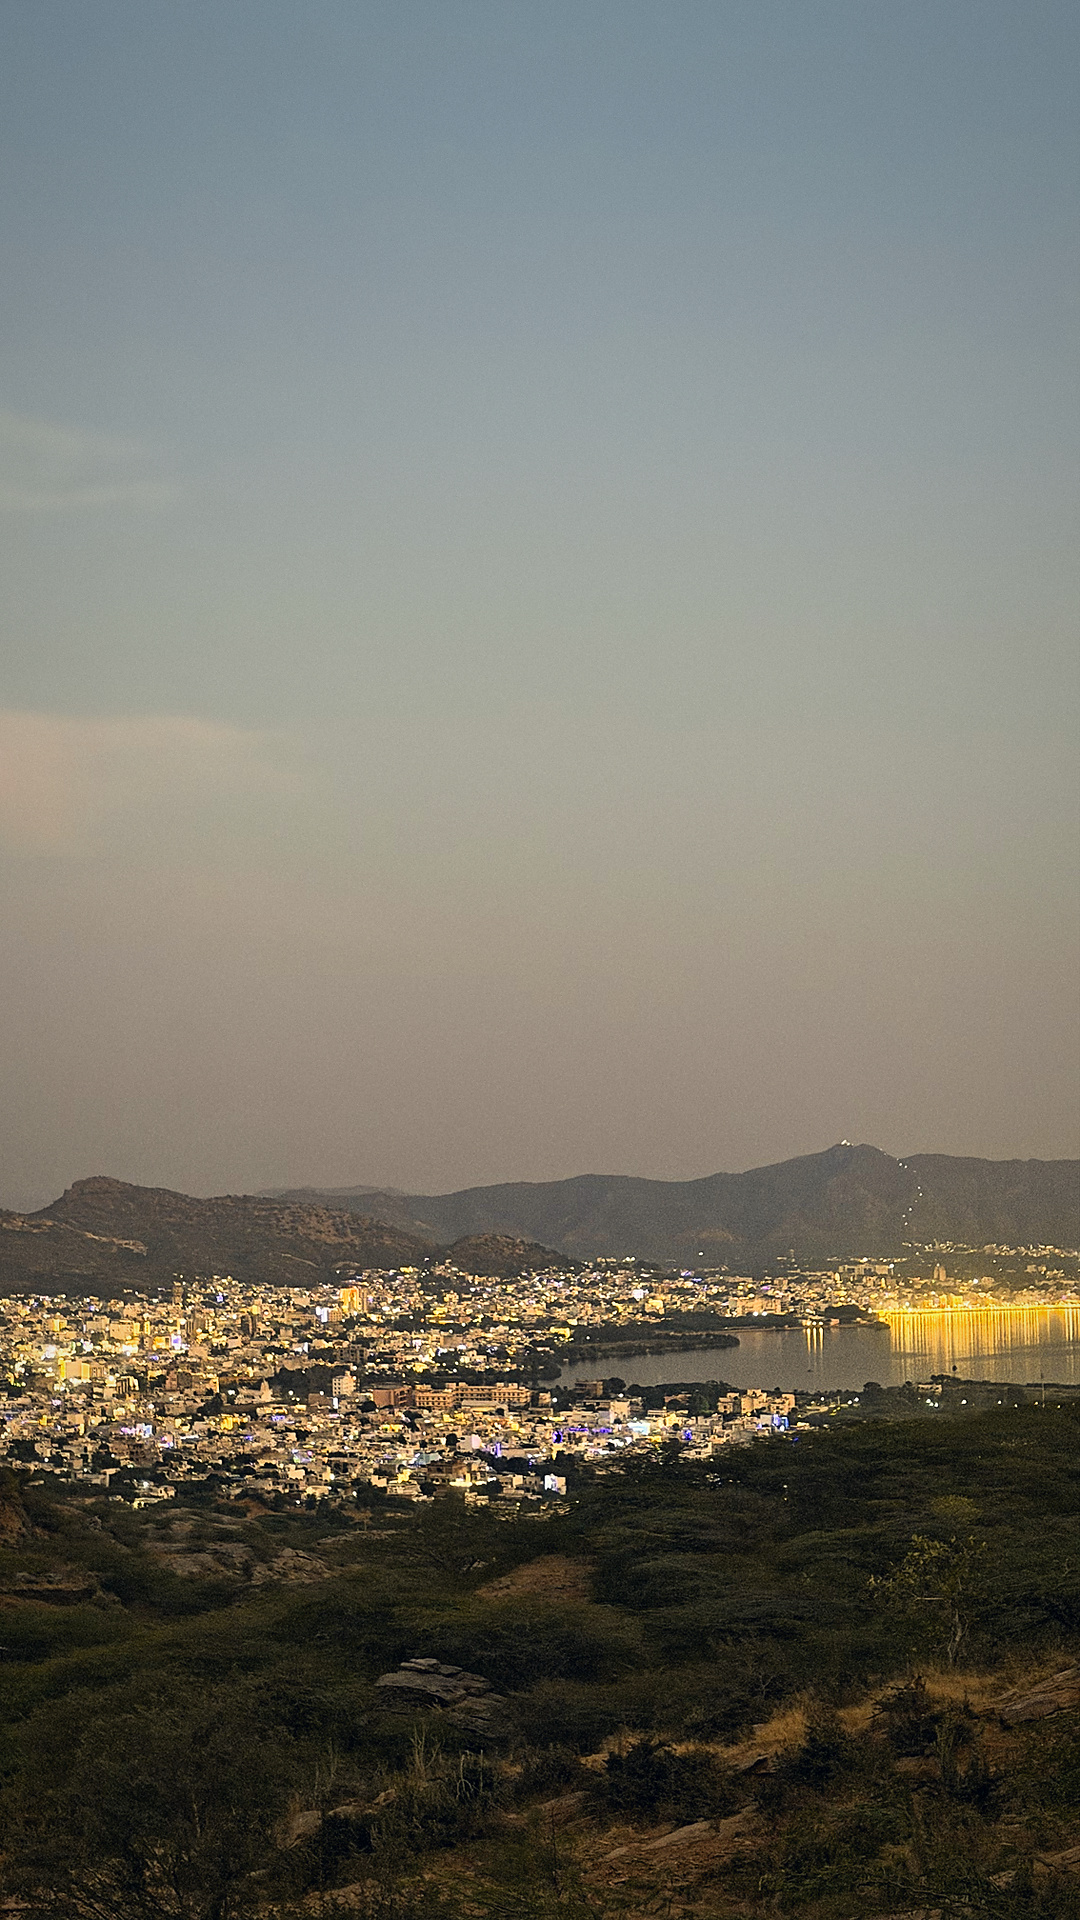
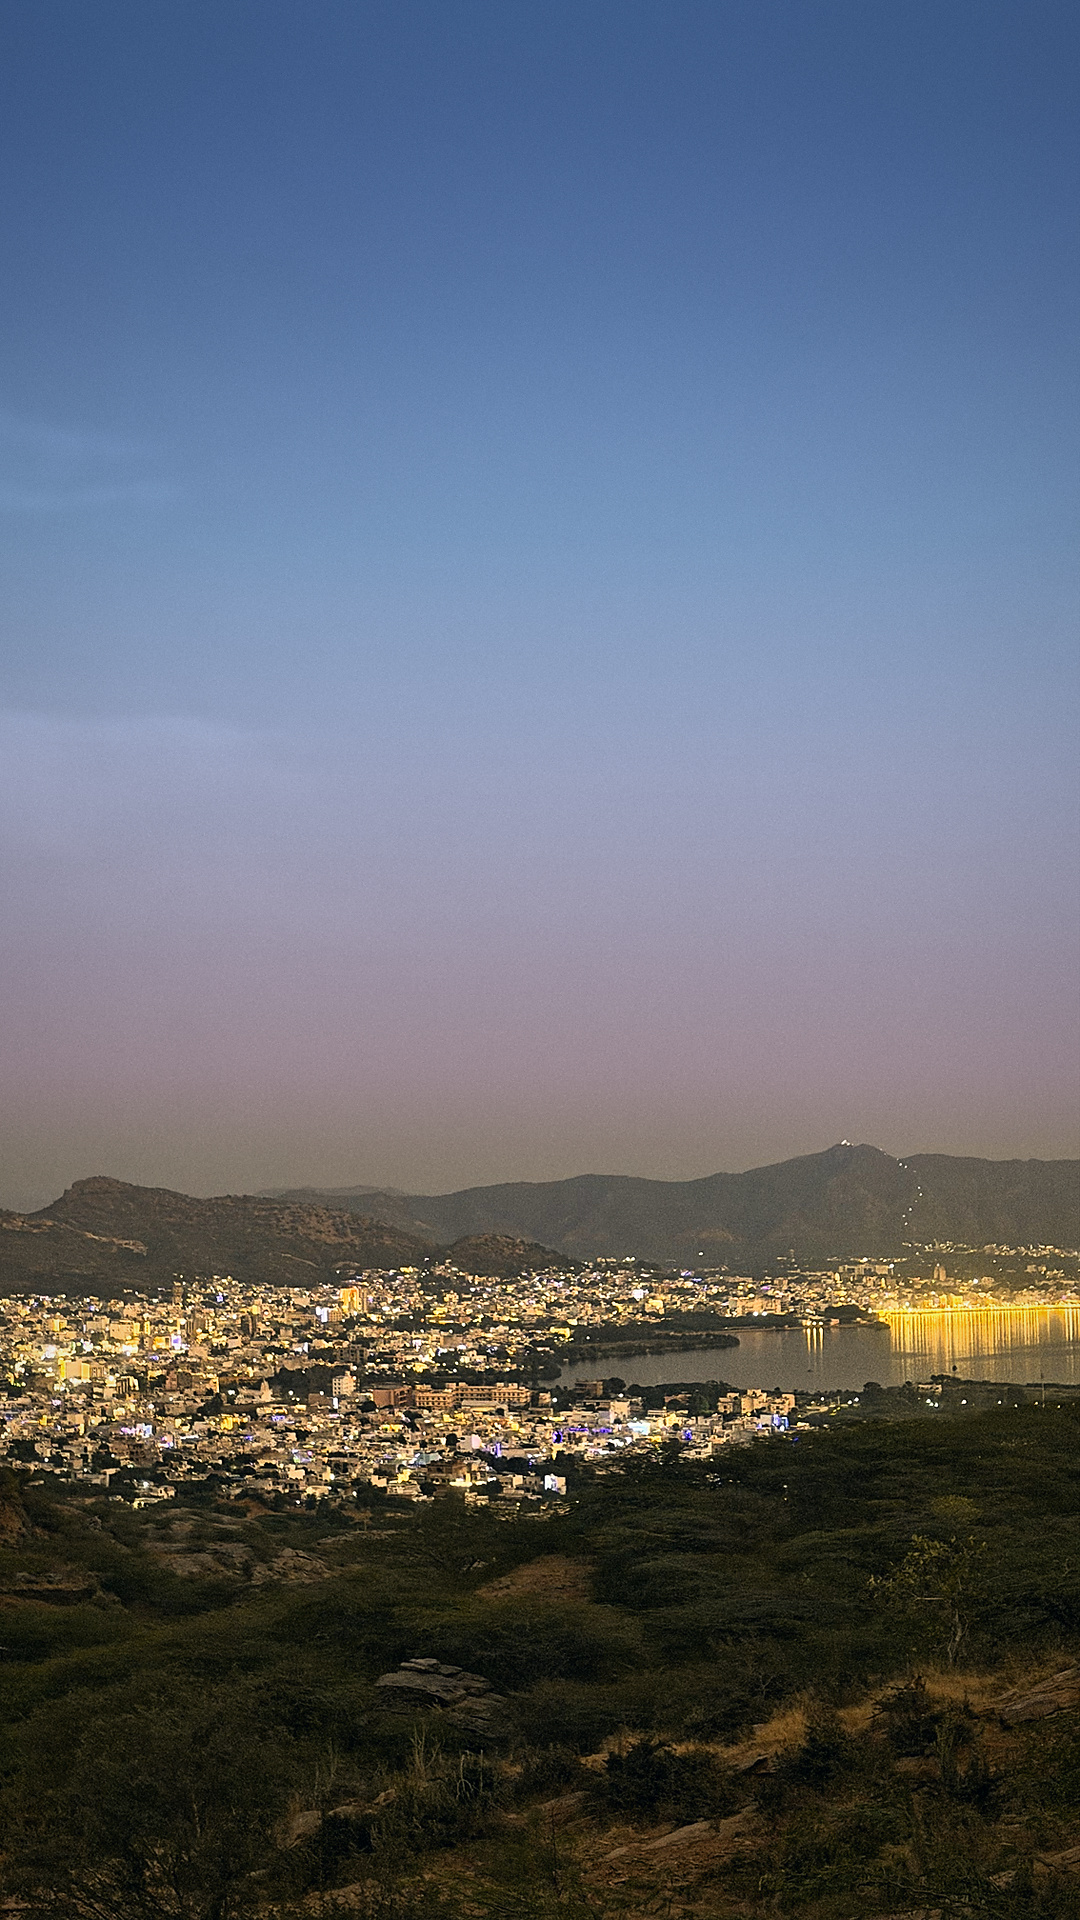
Refine story edits after full QA pass
- Add QA script: clipping, white point, saturation, flat-area noise, 100% crops
- Auto white point (clip-capped) for crisper highlights
- Blue hour: azure-to-rose sky gradient, land darkened so the lights glow
- Night arch: tighter crop, neutral ink blacks, warmer visible arch
- Misty layers: cool-to-warm sky gradient, brighter and cleaner
- Rebuild before/after and grid previews

Claude-Session: https://claude.ai/code/session_012ABvdF8pyw1B7kMw5foUKA

diff --git a/tools/edits.py b/tools/edits.py
@@ -36,6 +36,7 @@ def temple_sun(x):
     x = g.bloom(x, threshold=0.9, radius=25, amount=0.25, tint=(1.0, 0.93, 0.8))
     # restore a white-hot sun core
     x = g.apply_mask(x, g.exposure(x, 0.6), g.radial_mask(x.shape, 0.072, 0.176, 0.085, feather=0.8))
+    x = g.white_point(x, 0.96)
     x = g.vignette(x, 0.2)
     return g.grain(x)
 
@@ -55,7 +56,10 @@ def misty_layers(x):
     # soft peach glow sitting on the horizon
     glow = g.white_balance(g.exposure(x, 0.15), temp=0.35, tint=0.15)
     x = g.apply_mask(x, glow, g.radial_mask(x.shape, 0.55, 0.52, 0.9, 0.18, feather=0.9) * 0.6)
-    x = g.matte(x, lift=0.03, roll=0.975)
+    sky_m = g.linear_mask(x.shape, 0.5, 0.56)
+    x = g.sky_gradient(x, sky_m, [(0.0, 214, 0.2), (0.3, 210, 0.12), (0.52, 28, 0.14)], 0.6)
+    x = g.white_point(x, 0.95)
+    x = g.matte(x, lift=0.025, roll=0.98)
     x = g.vignette(x, 0.15)
     return g.grain(x)
 
@@ -73,6 +77,7 @@ def golden_balcony(x):
     x = g.split_tone(x, sh_hue=205, sh_amt=0.25, hl_hue=38, hl_amt=0.3)
     x = g.apply_mask(x, g.exposure(x, -0.3), g.linear_mask(x.shape, 0.0, 0.35))
     x = g.bloom(x, threshold=0.82, radius=30, amount=0.32)
+    x = g.white_point(x, 0.96)
     x = g.vignette(x, 0.22)
     return g.grain(x)
 
@@ -90,6 +95,7 @@ def sun_horizon(x):
     x = g.split_tone(x, sh_hue=200, sh_amt=0.3, hl_hue=32, hl_amt=0.3)
     x = g.apply_mask(x, g.exposure(x, -0.3), g.linear_mask(x.shape, 0.0, 0.4))
     x = g.bloom(x, threshold=0.85, radius=28, amount=0.35)
+    x = g.white_point(x, 0.96)
     x = g.vignette(x, 0.25)
     return g.grain(x)
 
@@ -130,6 +136,7 @@ def afterglow_hill(x):
     x = g.split_tone(x, sh_hue=215, sh_amt=0.25, hl_hue=30, hl_amt=0.22)
     x = g.apply_mask(x, g.exposure(x, -0.25), g.linear_mask(x.shape, 0.0, 0.4))
     x = g.bloom(x, threshold=0.72, radius=10, amount=0.4)
+    x = g.white_point(x, 0.96)
     x = g.vignette(x, 0.25)
     return g.grain(x)
 
@@ -149,52 +156,55 @@ def ghats_dusk(x):
     sky = g.white_balance(g.exposure(x, -0.15), temp=0.15, tint=0.12)
     x = g.apply_mask(x, sky, g.linear_mask(x.shape, 0.0, 0.32))
     x = g.bloom(x, threshold=0.8, radius=10, amount=0.3)
+    x = g.white_point(x, 0.96)
     x = g.matte(x, lift=0.02, roll=0.98)
     x = g.vignette(x, 0.2)
     return g.grain(x)
 
 
 def blue_hour_city(x):
-    """Moody blue hour: cool sky, golden city lights, glowing lakefront."""
+    """Moody blue hour: deep azure sky fading to a rose horizon, golden city
+    lights glowing against a slightly under-exposed scene."""
     x = g.crop(x, 378, 0, 1512, 2016)
-    x = g.smooth_flat(x, g.linear_mask(x.shape, 0.0, 0.58), radius=5, hi=0.03)
+    x = g.smooth_flat(x, g.linear_mask(x.shape, 0.0, 0.58), radius=6, hi=0.035)
     x = g.dehaze(x, 0.15)
     x = g.apply_mask(x, g.dehaze(x, 0.3), g.linear_mask(x.shape, 0.7, 0.55))
-    x = g.white_balance(x, temp=-0.15)
-    # push the grey-green sky into a deep twilight blue
-    sky = g.white_balance(x, temp=-0.55, tint=0.25)
-    sky = g.split_tone(sky, sh_hue=222, sh_amt=0.5, hl_hue=215, hl_amt=0.35)
-    x = g.apply_mask(x, sky, g.linear_mask(x.shape, 0.0, 0.6))
-    # soft lilac-peach twilight band above the hills, green removed
-    glow = g.white_balance(x, temp=0.15, tint=0.35)
-    band = g.linear_mask(x.shape, 0.62, 0.45) * g.linear_mask(x.shape, 0.58, 0.64)
-    x = g.apply_mask(x, glow, band * 0.8)
-    x = g.tone(x, shadows=0.3, highlights=-0.2, blacks=-0.25)
+    x = g.white_balance(x, temp=-0.1)
+    # sky mask: upper frame, and only where it is brighter than the hills
+    sky_m = g.linear_mask(x.shape, 0.55, 0.62) * g.smoothstep(0.28, 0.42, g.blur1(g.lum(x), 3))
+    x = g.sky_gradient(x, sky_m, [(0.0, 220, 0.55), (0.28, 214, 0.4),
+                                  (0.46, 240, 0.16), (0.6, 345, 0.16)], strength=0.9)
+    x = g.apply_mask(x, g.exposure(x, -1.8), g.linear_mask(x.shape, 0.0, 0.55) ** 1.3 * sky_m)
+    x = g.tone(x, shadows=0.3, highlights=-0.15, blacks=-0.25)
     x = g.contrast(x, 0.18)
     x = g.apply_mask(x, g.clarity(x, 0.3), g.linear_mask(x.shape, 0.7, 0.55))
-    x = g.hsl(x, blue=(-6, 0.25, -0.1), aqua=(15, 0.2, 0), yellow=(-8, 0.25, 0.1),
-              orange=(0, 0.2, 0.05), green=(-15, -0.3, -0.15), purple=(0, 0.15, 0))
-    x = g.split_tone(x, sh_hue=215, sh_amt=0.3, hl_hue=40, hl_amt=0.2)
-    sky = g.white_balance(g.exposure(x, -0.5), temp=-0.15)
-    x = g.apply_mask(x, sky, g.linear_mask(x.shape, 0.0, 0.5))
-    x = g.bloom(x, threshold=0.7, radius=8, amount=0.45)
+    x = g.hsl(x, yellow=(-8, 0.25, 0.1), orange=(0, 0.2, 0.05),
+              green=(-15, -0.3, -0.15), purple=(0, 0.15, 0))
+    x = g.split_tone(x, sh_hue=205, sh_amt=0.25, hl_hue=40, hl_amt=0.12)
+    # under-expose the land a touch so the lights pop, then let them glow
+    land = g.protect_highlights(1 - g.linear_mask(x.shape, 0.55, 0.62), x, 0.55, 0.8)
+    x = g.apply_mask(x, g.exposure(x, -0.2), land)
+    x = g.bloom(x, threshold=0.68, radius=8, amount=0.5)
+    x = g.white_point(x, 0.96)
     x = g.vignette(x, 0.3)
     return g.grain(x)
 
 
 def night_arch(x):
-    """Lake lights framed by the scalloped arch: deep blue night, neon glow."""
-    x = g.crop(x, 300, 0, 1434, 2016)
+    """Lake lights framed by the scalloped arch: navy night, warm stone, neon
+    reflections; inky but not crushed blacks."""
+    x = g.crop(x, 420, 0, 1376, 1700)
     x = g.chroma_denoise(x, 3.0, luma_radius=1.2)
     x = g.smooth_flat(x, radius=3, lo=0.003, hi=0.012)
-    x = g.exposure(x, 0.5)
-    x = g.white_balance(x, temp=-0.2, tint=0.1)
-    x = g.tone(x, shadows=0.3, highlights=-0.1, blacks=-0.2)
-    x = g.clarity(x, 0.1)
-    x = g.hsl(x, blue=(0, 0.2, 0), purple=(0, 0.2, 0), orange=(0, 0.2, 0))
-    x = g.split_tone(x, sh_hue=225, sh_amt=0.35, hl_hue=35, hl_amt=0.2)
+    x = g.exposure(x, 1.05)
+    x = g.white_balance(x, temp=-0.08, tint=0.06)
+    x = g.tone(x, shadows=0.35, highlights=-0.15, blacks=-0.1)
+    x = g.clarity(x, 0.15)
+    x = g.hsl(x, blue=(0, 0.1, 0), purple=(0, 0.2, 0), orange=(0, 0.2, 0.05))
+    x = g.split_tone(x, sh_hue=225, sh_amt=0.16, hl_hue=35, hl_amt=0.3)
+    x = g.neutral_blacks(x, below=0.07, amount=0.45)
     x = g.bloom(x, threshold=0.55, radius=10, amount=0.5)
-    x = g.vignette(x, 0.3)
+    x = g.vignette(x, 0.25)
     return g.grain(x)
 
 

diff --git a/tools/qa.py b/tools/qa.py
@@ -1,0 +1,38 @@
+"""Objective checks on finished story JPEGs + 100% crop sheets for eyeballing.
+python3 tools/qa.py <out_dir_for_crops> files...
+"""
+import os, sys
+import numpy as np
+from PIL import Image
+
+def stats(p):
+    a = np.asarray(Image.open(p).convert("RGB")).astype(np.float32)
+    l = a @ np.array([0.2126, 0.7152, 0.0722])
+    mx, mn = a.max(-1), a.min(-1)
+    sat = (mx - mn) / (mx + 1e-5)
+    # noise: high-pass std in the flattest 15% of the image (sky)
+    from PIL import ImageFilter
+    L = Image.fromarray(l.astype(np.uint8))
+    hp = l - np.asarray(L.filter(ImageFilter.GaussianBlur(2)), np.float32)
+    loc = np.asarray(Image.fromarray(np.abs(hp).clip(0,255).astype(np.uint8)).filter(ImageFilter.BoxBlur(16)), np.float32)
+    flat = loc <= np.percentile(loc, 15)
+    return dict(
+        mean=l.mean(), p1=np.percentile(l, 1), p99=np.percentile(l, 99),
+        clip_hi=(mx >= 254).mean() * 100, clip_lo=(mx <= 3).mean() * 100,
+        sat=sat.mean(), sat95=np.percentile(sat, 95),
+        flat_noise=hp[flat].std(),
+        size=Image.open(p).size)
+
+if __name__ == "__main__":
+    out = sys.argv[1]; os.makedirs(out, exist_ok=True)
+    print(f"{'file':28s} {'mean':>5s} {'p1':>4s} {'p99':>4s} {'clipHi%':>7s} {'clipLo%':>7s} {'sat':>5s} {'sat95':>5s} {'noise':>5s}")
+    for p in sys.argv[2:]:
+        s = stats(p)
+        print(f"{os.path.basename(p):28s} {s['mean']:5.0f} {s['p1']:4.0f} {s['p99']:4.0f} {s['clip_hi']:7.2f} {s['clip_lo']:7.2f} {s['sat']:5.2f} {s['sat95']:5.2f} {s['flat_noise']:5.2f}")
+        im = Image.open(p)
+        # 3 x 100% crops: upper sky, middle (subject band), lower foreground
+        w, h = im.size
+        crops = [im.crop((w//2-200, int(h*f)-200, w//2+200, int(h*f)+200)) for f in (0.15, 0.55, 0.85)]
+        sheet = Image.new("RGB", (1220, 400), "white")
+        for i, c in enumerate(crops): sheet.paste(c, (i*410, 0))
+        sheet.save(os.path.join(out, "crop_" + os.path.basename(p)), quality=90)

diff --git a/tools/grade.py b/tools/grade.py
@@ -395,3 +395,37 @@ def smooth_flat(x, mask=None, radius=3.0, lo=0.004, hi=0.02):
 def protect_highlights(mask, x, start=0.75, end=0.95):
     """Fade a local-adjustment mask out over bright areas (the sun)."""
     return mask * (1 - smoothstep(start, end, lum(x)))
+
+
+def white_point(x, target=0.95, pct=99.7, max_gain=1.2):
+    """Levels: map the `pct` luminance percentile to `target` (never darkens)."""
+    l = lum(x)
+    p = float(np.percentile(l, pct))
+    # never push more than ~0.4% of pixels (any channel) into clipping
+    mc = float(np.percentile(x.max(-1), 99.6))
+    gain = float(np.clip(min(target / max(p, 1e-3), 0.995 / max(mc, 1e-3)), 1.0, max_gain))
+    if gain <= 1.001:
+        return x
+    return _set_lum(x, np.clip(l * gain, 0, 1.2), l)
+
+
+def sky_gradient(x, mask, stops, strength=0.85):
+    """Re-colour a sky with a designed vertical gradient while keeping its own
+    luminance (like a gradient map in a sky mask). stops: [(y_frac, hue_deg, sat)]."""
+    h, w = x.shape[:2]
+    yy = np.linspace(0, 1, h, dtype=np.float32)
+    ys = [s[0] for s in stops]
+    # interpolate colour in RGB between stop colours
+    cols = np.stack([_hsv2rgb(np.array(hd / 360.0), np.array(s), np.array(1.0)) for _, hd, s in stops])
+    row = np.stack([np.interp(yy, ys, cols[:, c]) for c in range(3)], -1)  # (h,3)
+    row = row / (lum(row[None])[0][:, None] + 1e-5)
+    l = lum(x)
+    tgt = np.clip(row[:, None, :] * l[..., None], 0, 1)
+    return apply_mask(x, tgt, mask * strength)
+
+
+def neutral_blacks(x, below=0.06, amount=0.5):
+    """Pull colour out of the deepest shadows so blacks read as ink, not paint."""
+    l = lum(x)
+    m = (1 - smoothstep(0.0, below, l)) * amount
+    return apply_mask(x, np.repeat(l[..., None], 3, -1), m)

diff --git a/README.md b/README.md
@@ -6,17 +6,38 @@ They are ordered as a sunrise-to-night story.
 | # | File | Look |
 |---|------|------|
 | 1 | `stories/01_temple_sun.jpg` | Golden morning over the temple. Valley haze cut, land warmed, clean blue sky, green lens-flare dot removed. |
-| 2 | `stories/02_misty_layers.jpg` | Pastel, dreamy mist. TV-tower hill placed on the right third, peach glow on the horizon, faded film blacks. |
+| 2 | `stories/02_misty_layers.jpg` | Pastel, dreamy mist. TV-tower hill on the right third, sky fading from cool blue at the top to warm peach at the horizon. |
 | 3 | `stories/03_golden_balcony.jpg` | Sun flare through the balcony awning. Rich golden hour with teal shadows. |
 | 4 | `stories/04_sun_horizon.jpg` | Sun on the horizon beside Savitri hill. Cinematic teal and orange, deep sky gradient. |
 | 5 | `stories/05_afterglow_hill.jpg` | Afterglow with the lit pilgrim path. Awning cropped out, light streak removed from the sky, glowing lights. |
 | 6 | `stories/06_ghats_dusk.jpg` | Pastel dusk over the ghats. Peach sky, lilac water, steps lifted out of shadow. |
-| 7 | `stories/07_blue_hour_city.jpg` | Ajmer at blue hour. Slate-blue sky in place of the grey-green, golden city lights, glowing lakefront. |
-| 8 | `stories/08_night_arch.jpg` | Lake lights framed by the scalloped arch. Night noise cleaned, deep blue tones, neon glow on the reflections. |
+| 7 | `stories/07_blue_hour_city.jpg` | Ajmer at blue hour. Deep azure sky fading to a rose glow over the hills, land slightly darkened so the golden city lights pop. |
+| 8 | `stories/08_night_arch.jpg` | Lake lights framed by the scalloped arch. Tighter crop, night noise cleaned, navy tones with ink-black (not blue) shadows, neon reflections. |
 
 `previews/stories_grid.jpg` shows the whole set. `previews/before_after.jpg` shows each original next to its edit.
 
 Not used: near-duplicates (the second temple frame and two of the sunset frames) and the dark Hotel Sarovar shot.
+
+## Review process
+Each edit went through several rounds of checks:
+- **Full-frame review:** each photo against its original, and the whole set side by side.
+- **100% crops:** sky, subject and foreground, checked for noise, banding, halos and retouch marks.
+- **Measurements** (`python3 tools/qa.py <crop_dir> stories/*.jpg`): clipped highlights and shadows,
+  white point, saturation, and noise in flat areas.
+
+The references used were common Lightroom practice for sunsets, golden hour and blue hour:
+- Pull highlights down and lift shadows, then add a gentle S-curve.
+- Shift yellows toward orange and darken the blue sky.
+- At blue hour, use a deep azure sky and slightly underexpose so the city lights glow.
+- Keep grain fine and keep one consistent look across the set.
+
+Fixes these checks led to:
+- Grain reduced and sharpening softened.
+- Skies smoothed with an edge-aware filter, which removed noise and JPEG blocking.
+- The sun core restored in photo 1.
+- A white point added so highlights are crisp, capped at about 0.4% clipping.
+- Photo 7's khaki sky regraded to azure and rose.
+- Photo 8's blue-crushed blacks neutralised, the arch made visible, and the crop tightened.
 
 ## Re-running the edits
 ```
